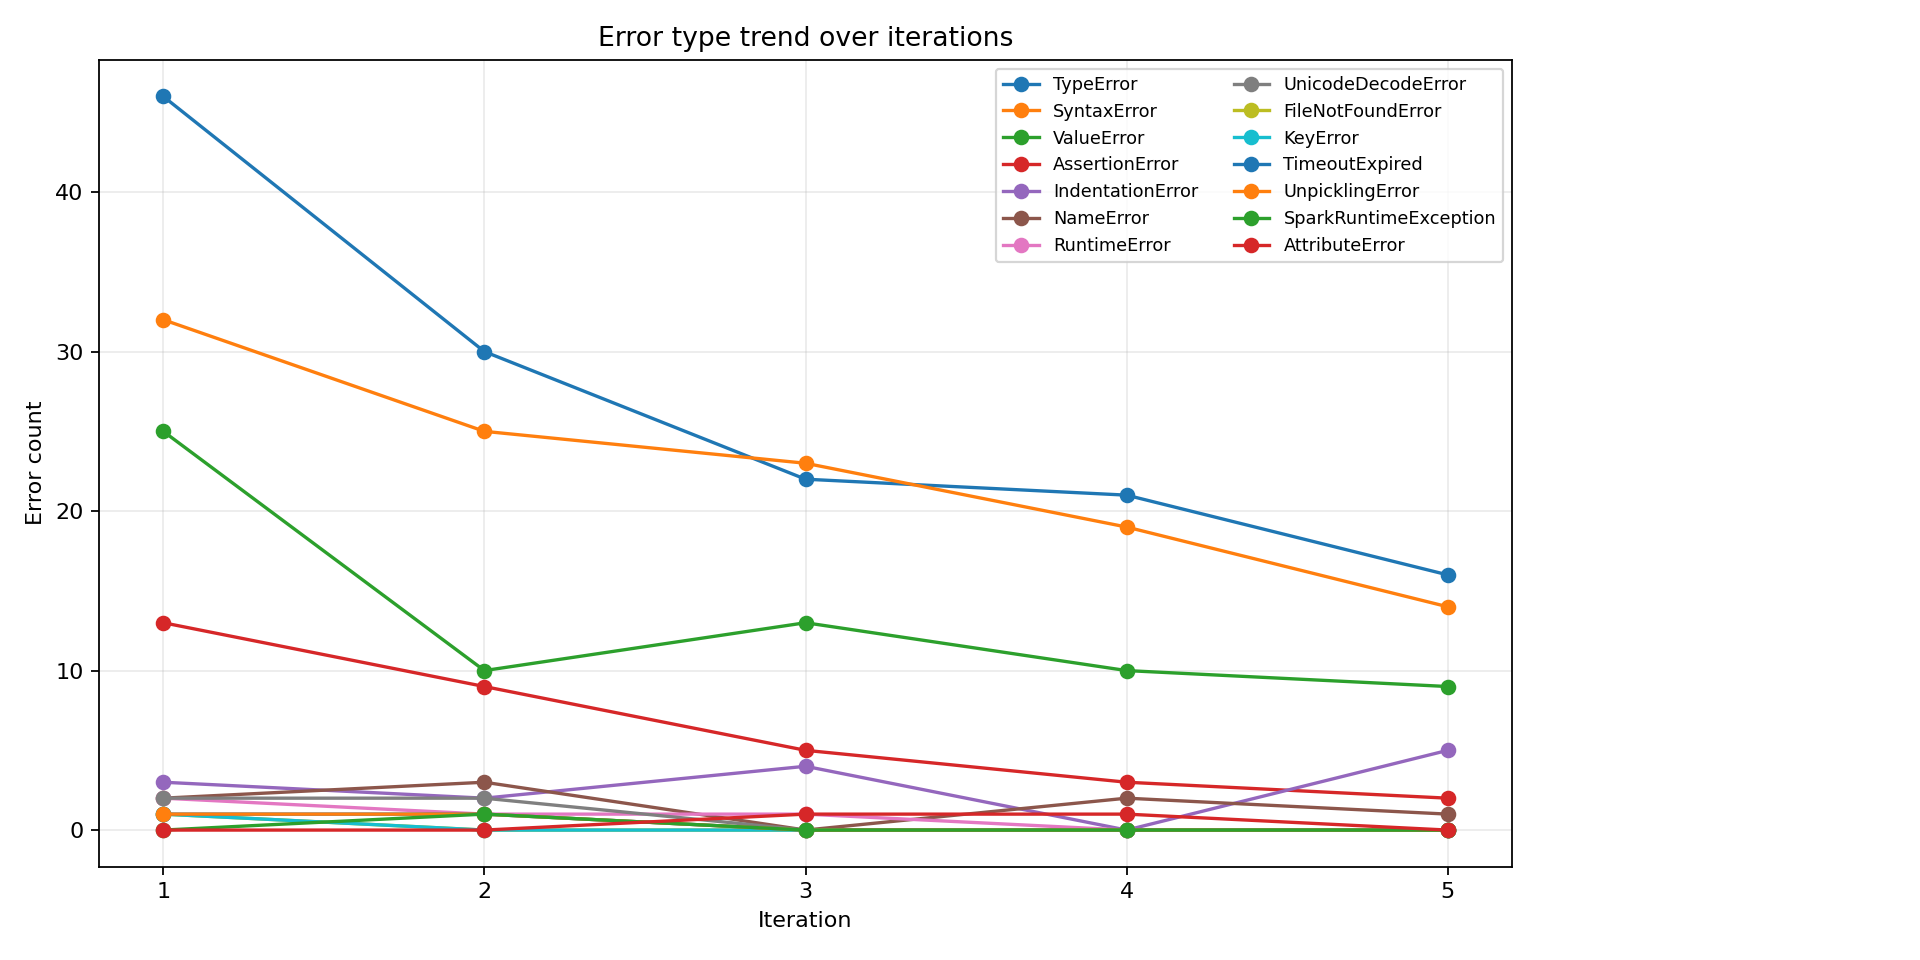
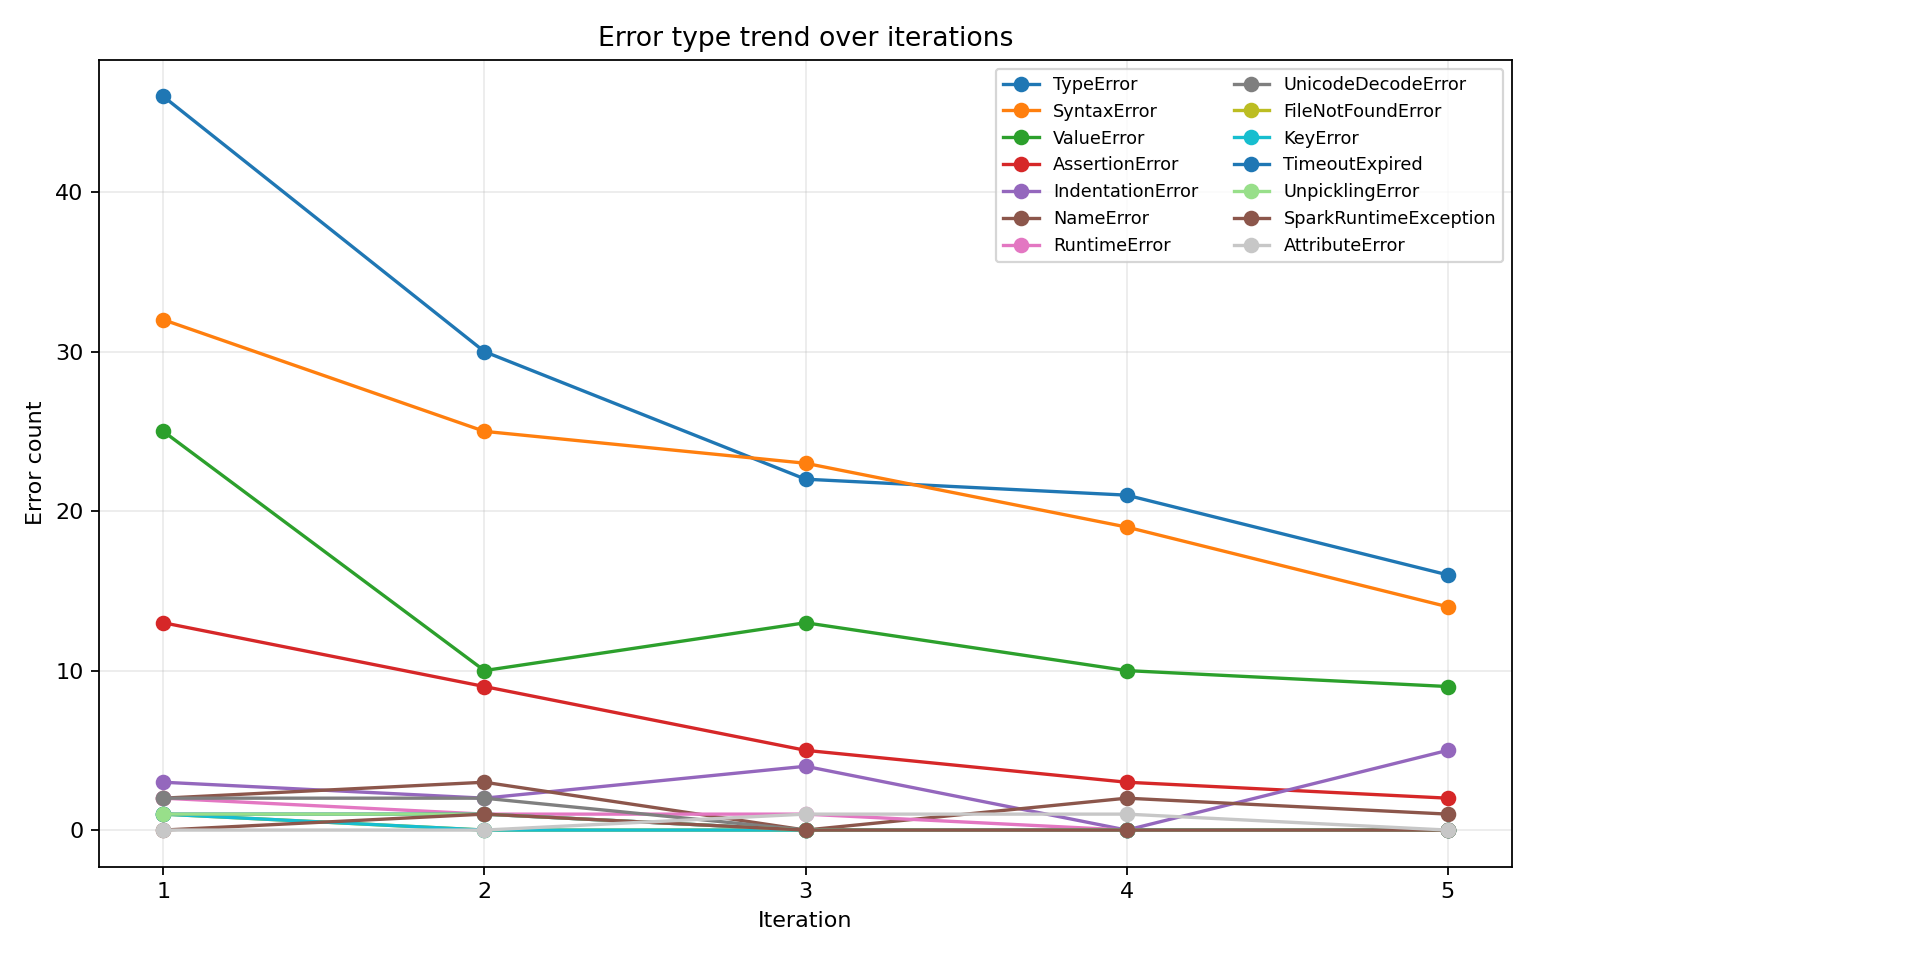
update error analysis

Changed region(s): [[0.0625, 0.8438, 0.7812, 0.875], [0.625, 0.1875, 0.6562, 0.2812]]

diff --git a/scripts/error_analysis.py b/scripts/error_analysis.py
@@ -296,11 +296,21 @@ def plot_error_types_over_iterations(iterations: List[Dict[str, object]], out_di
     if not top_types:
         return None
 
+    base_colors = plt.rcParams["axes.prop_cycle"].by_key().get("color", [])
+    if not base_colors:
+        base_colors = list(plt.get_cmap("tab20").colors)
+    colors = [base_colors[i] for i in range(min(len(top_types), len(base_colors)))]
+    if len(top_types) > len(base_colors):
+        fallback = plt.get_cmap("tab20")
+        extra_count = len(top_types) - len(base_colors)
+        colors.extend(fallback(i / max(1, extra_count)) for i in range(extra_count))
+
     fig, ax = plt.subplots(figsize=(12, 6))
     plotted = []
     for err in top_types:
         ys = [d["error_types"].get(err, 0) for d in iterations]
-        line, = ax.plot(xvals, ys, marker="o")
+        color = colors[len(plotted) % len(colors)] if colors else None
+        line, = ax.plot(xvals, ys, marker="o", color=color)
         plotted.append((line, err))
 
     ax.set_title("Error type trend over iterations")
@@ -336,19 +346,29 @@ def plot_last_iteration_error_types(iterations: List[Dict[str, object]], out_dir
     assist_vals = [assisted.get(e, 0) for e in errs]
 
     fig, ax = plt.subplots(figsize=(10, 6))
-    bottoms = [0 for _ in errs]
-    ax.bar(idx, auto_vals, width=0.5, label="autonomous")
-    ax.bar(idx, assist_vals, width=0.5, bottom=auto_vals, label="assisted")
-    for i in idx:
-        total = auto_vals[i] + assist_vals[i]
-        if total > 0:
+    x_auto = [i - width / 2 for i in idx]
+    x_assist = [i + width / 2 for i in idx]
+    ax.bar(x_auto, auto_vals, width=width, label="autonomous")
+    ax.bar(x_assist, assist_vals, width=width, label="assisted")
+    for x_pos, value in zip(x_auto, auto_vals):
+        if value > 0:
             ax.text(
-                i,
-                total + 0.2,
-                str(total),
+                x_pos,
+                value + 0.2,
+                str(value),
                 ha="center",
                 va="bottom",
-                fontsize=9,
+                fontsize=8,
+            )
+    for x_pos, value in zip(x_assist, assist_vals):
+        if value > 0:
+            ax.text(
+                x_pos,
+                value + 0.2,
+                str(value),
+                ha="center",
+                va="bottom",
+                fontsize=8,
             )
 
     ax.set_title(f"Error types by mode (final iteration)")
